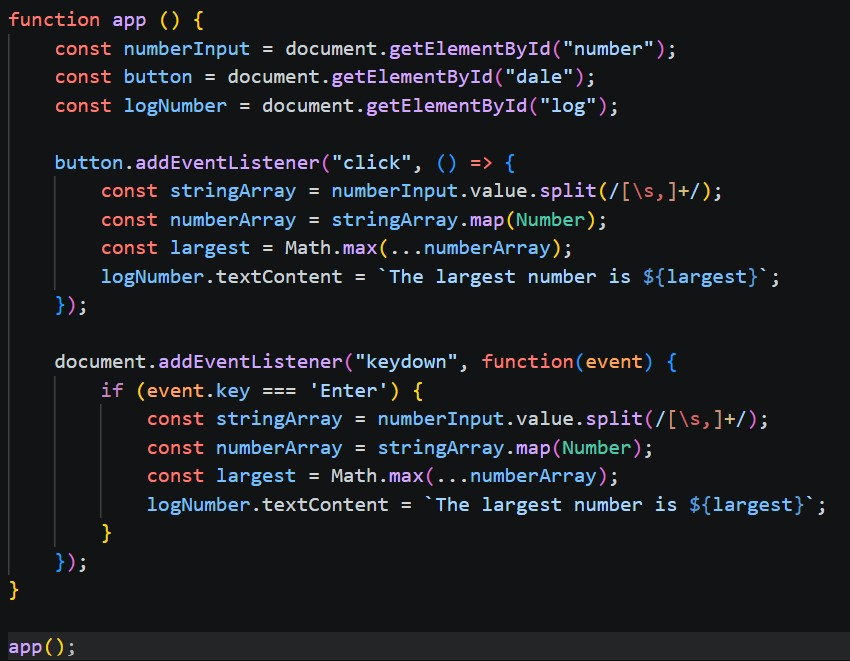
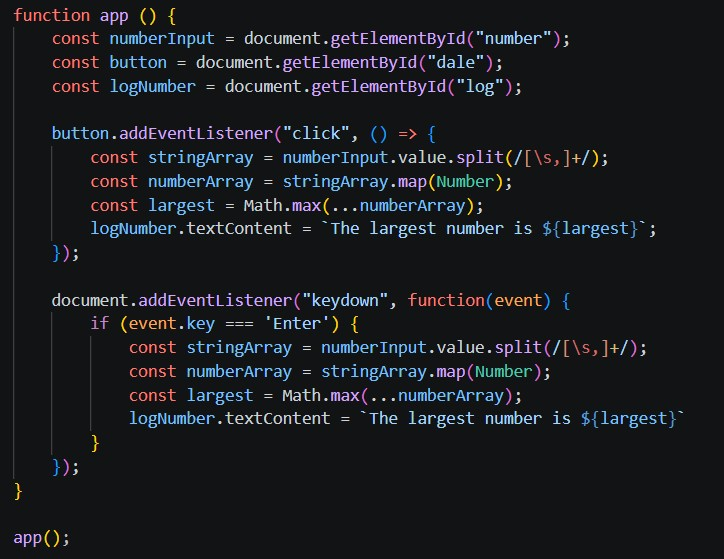
feat: Exercise 03

diff --git a/src/ex03/index.html b/src/ex03/index.html
@@ -7,9 +7,9 @@
 </head>
 <body>
     
-    <label for="number">Introduzca tres números</label>
+    <label for="number">Please, type 3 numbers to check the largest one:</label>
     <input type="text" name="number" id="number" placeholder="Números" required>
-    <button id="dale">¡Dale!</button>
+    <button id="dale">Give it a go!</button>
     <pre id="log"></pre>
     <script src="./js/app.js"></script>
 </body>

diff --git a/src/ex03/js/app.js b/src/ex03/js/app.js
@@ -17,9 +17,14 @@ function app () {
             const stringArray = numberInput.value.split(/[\s,]+/);
             const numberArray = stringArray.map(Number);
             const largest = Math.max(...numberArray);
-            logNumber.textContent = `The largest number is ${largest}`;
+            logNumber.textContent = `The largest number is ${largest}`
         }
     });
 }
 
 app();
+
+
+
+
+

diff --git a/src/ex04/index.html b/src/ex04/index.html
@@ -1,0 +1,12 @@
+<!DOCTYPE html>
+<html lang="en">
+<head>
+    <meta charset="UTF-8">
+    <meta name="viewport" content="width=device-width, initial-scale=1.0">
+    <title>Document</title>
+</head>
+<body>
+    
+    <script src="./js/app.js"></script>
+</body>
+</html>l

diff --git a/README.md b/README.md
@@ -48,6 +48,11 @@ Escribe un programa que pida 3 números y escriba en la pantalla el mayor de los
 
 Escribe un programa que pida una frase y escriba cuantas veces aparece la letra `a`.
 
+### Pasos a seguir:
+
+- Crear input de texto
+- Botón que 
+
 ### Resultado:
 
 ![]()
